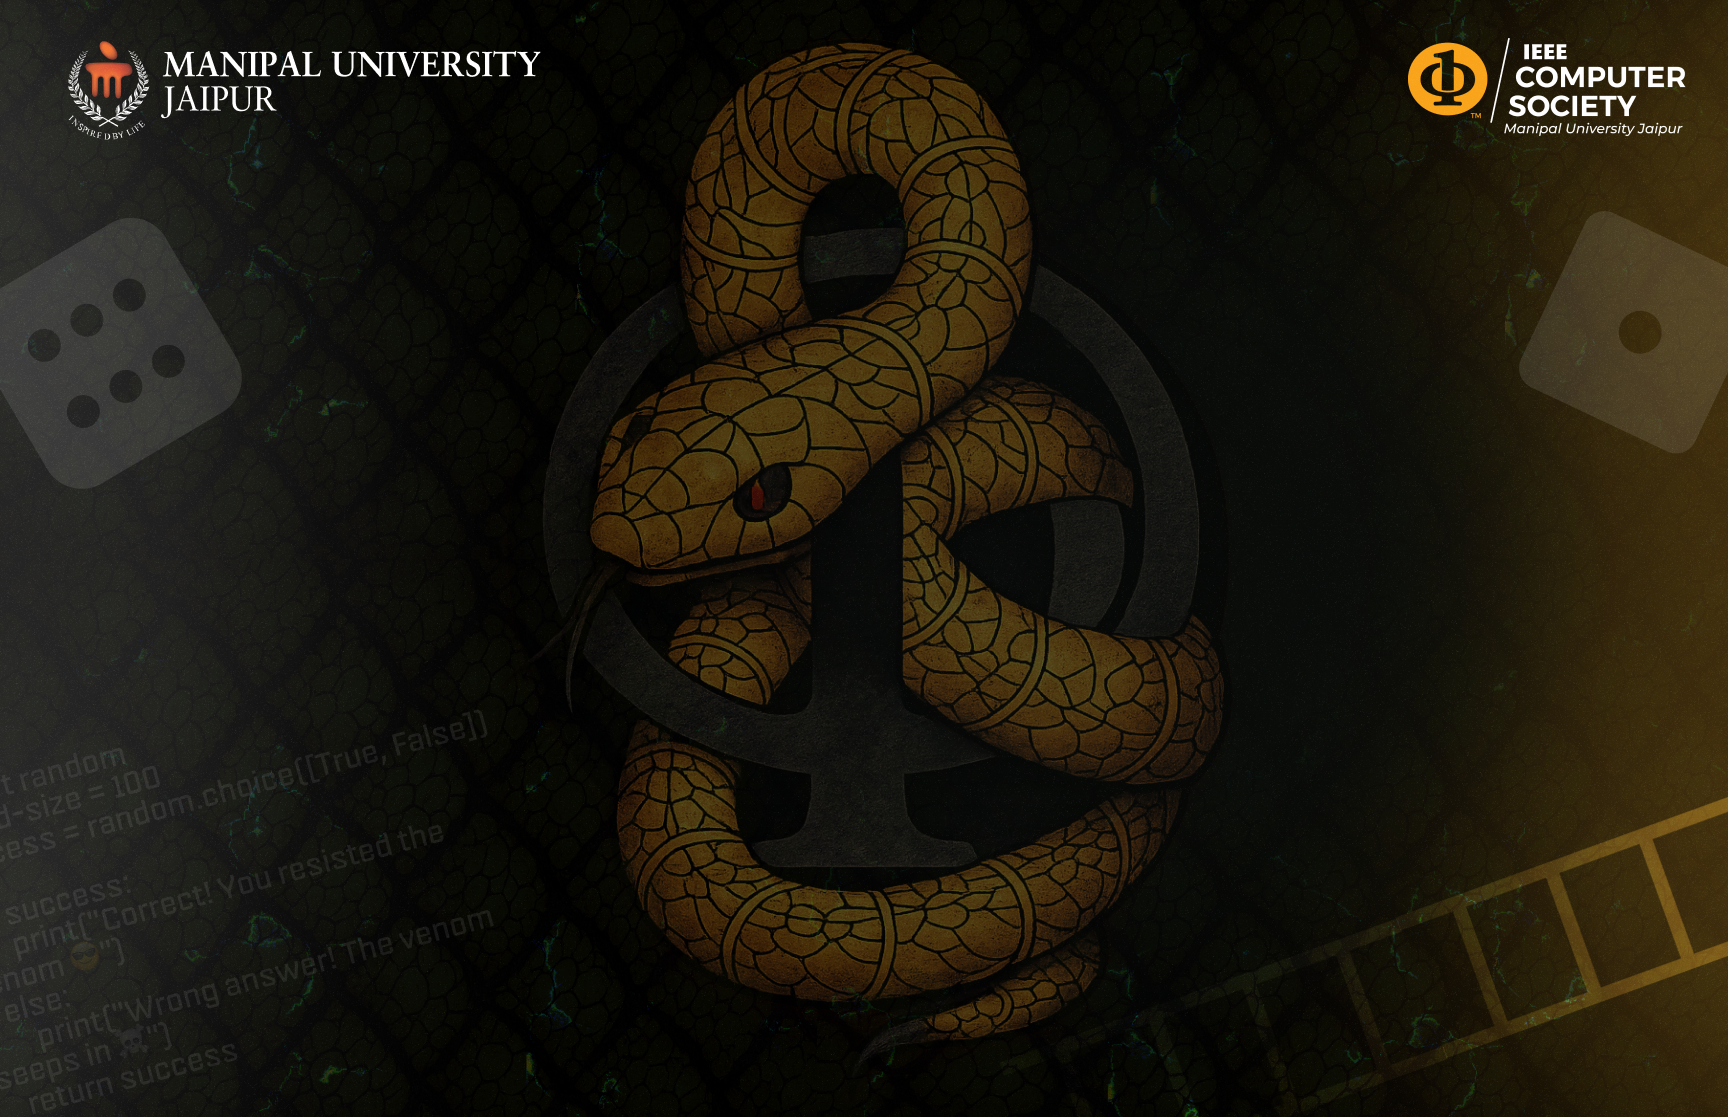
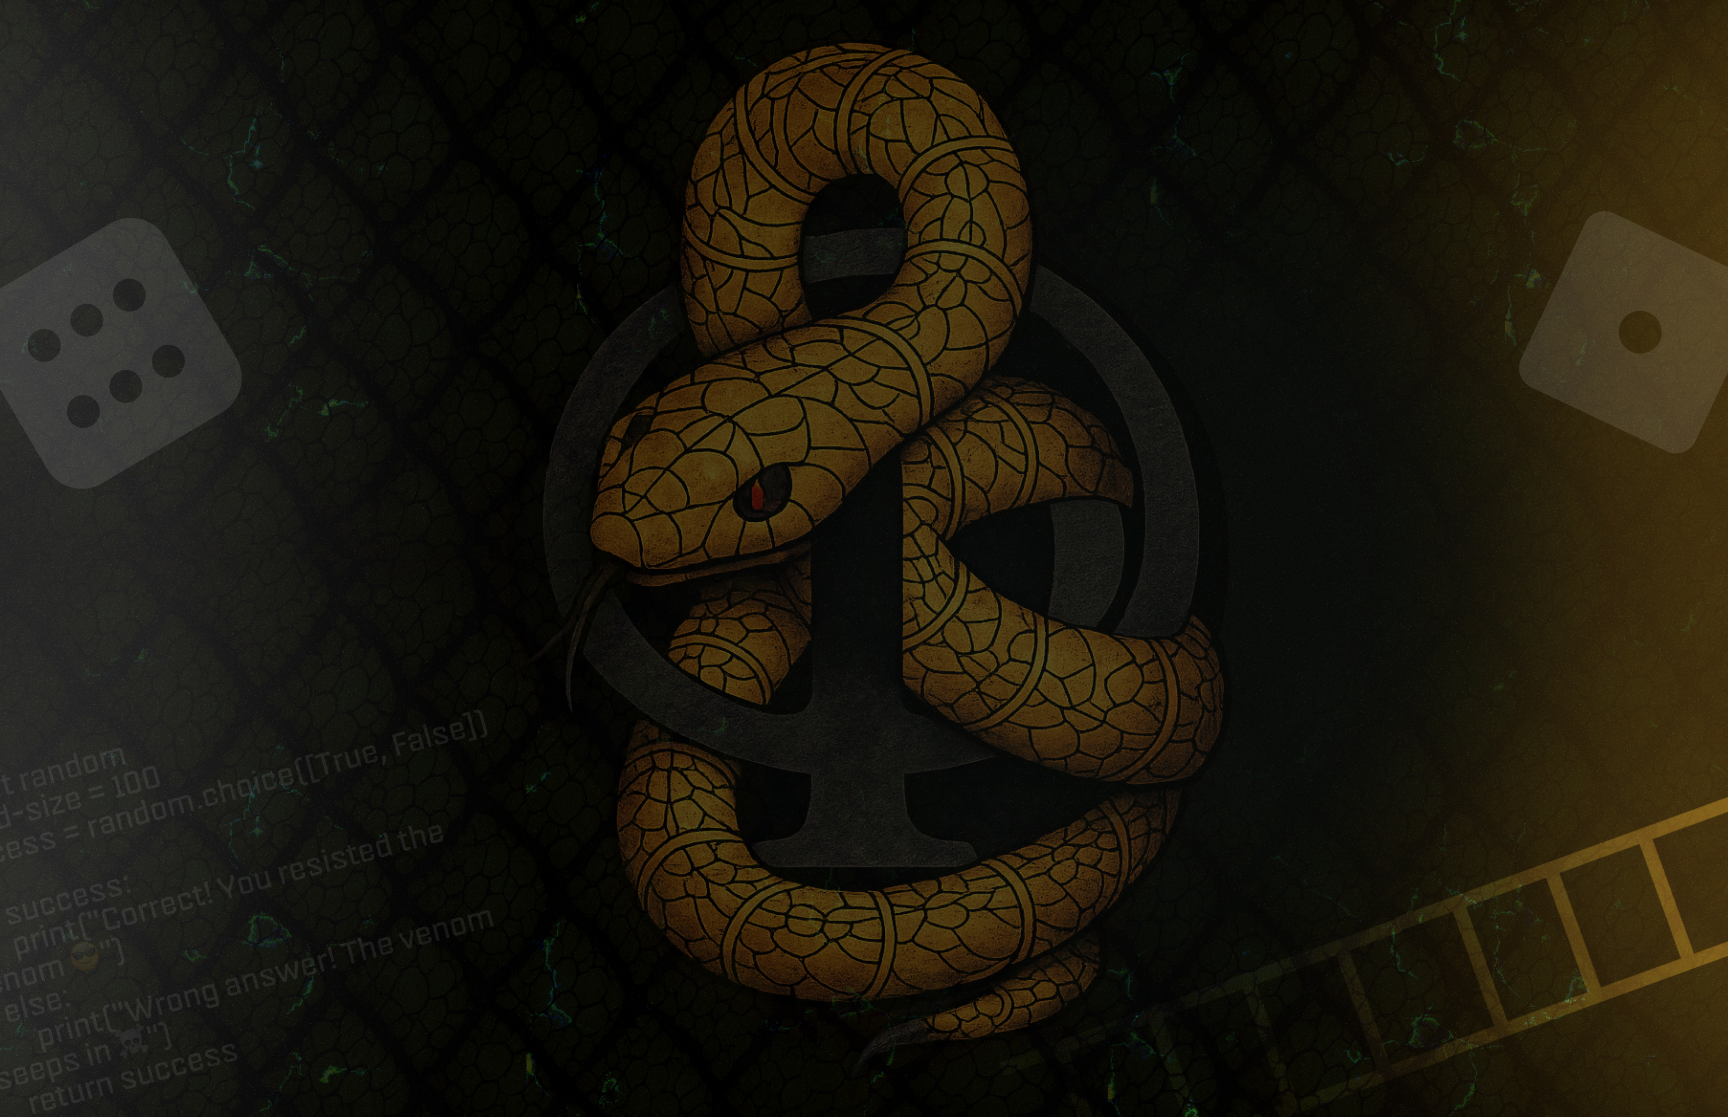
made changes

Changed region(s): [[0.0312, 0.0304, 0.3125, 0.1218], [0.8125, 0.0304, 0.9688, 0.1218]]

diff --git a/frontend/app/login/page.tsx b/frontend/app/login/page.tsx
@@ -52,7 +52,7 @@ export default function LoginPage() {
   }
 
  return (
-    <div className="min-h-screen w-full flex items-center justify-center px-4 sm:px-6 lg:px-8 bg-cover bg-center" style={{ backgroundImage: 'url(/login.png)' }}>
+    <div className="min-h-screen w-full flex items-center justify-center px-4 sm:px-6 lg:px-8 overflow-hidden">
       <div
         className="flex flex-col items-center justify-center"
         style={{
@@ -60,11 +60,11 @@ export default function LoginPage() {
           maxWidth: 420,
           minWidth: 320,
           borderRadius: 84.1,
-          background: 'rgba(24,24,24,0.85)',
+          background: 'rgba(255,255,255,0.10)',
           border: '0.6px solid #FFFFFF',
           boxShadow: '0 2px 32px 0 rgba(0,0,0,0.18)',
           padding: '2.5rem 2rem',
-          backdropFilter: 'blur(2px)',
+          backdropFilter: 'blur(8px)',
         }}
       >
         {/* Header */}
@@ -126,6 +126,15 @@ export default function LoginPage() {
             <FiArrowRight style={{ width: 38, height: 24 }} />
           </button>
         </form>
+      </div>
+      <div className="fixed inset-0 -z-10 w-screen h-screen">
+        <img
+          src="/background.png"
+          alt="Login Background"
+          className="w-full h-full min-w-0 min-h-0 object-cover object-center"
+          style={{ maxWidth: '100vw', maxHeight: '100vh' }}
+          draggable="false"
+        />
       </div>
     </div>
   )
